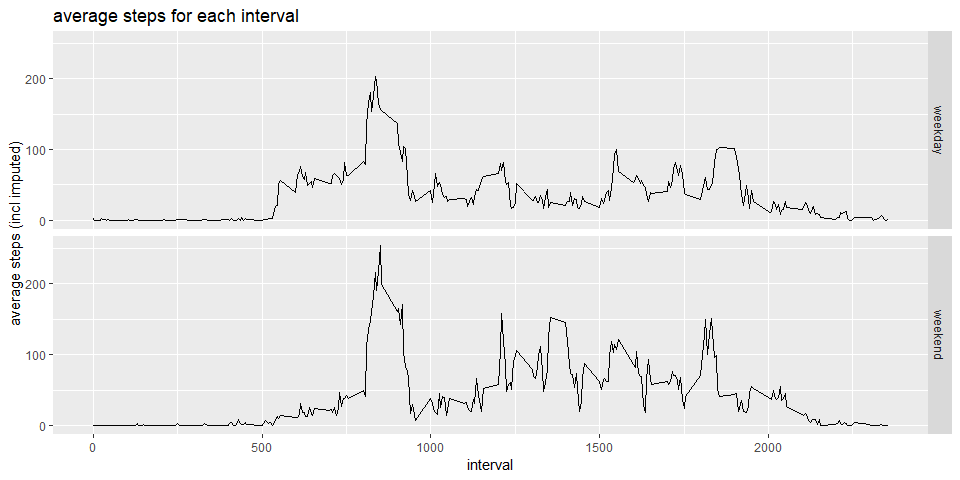
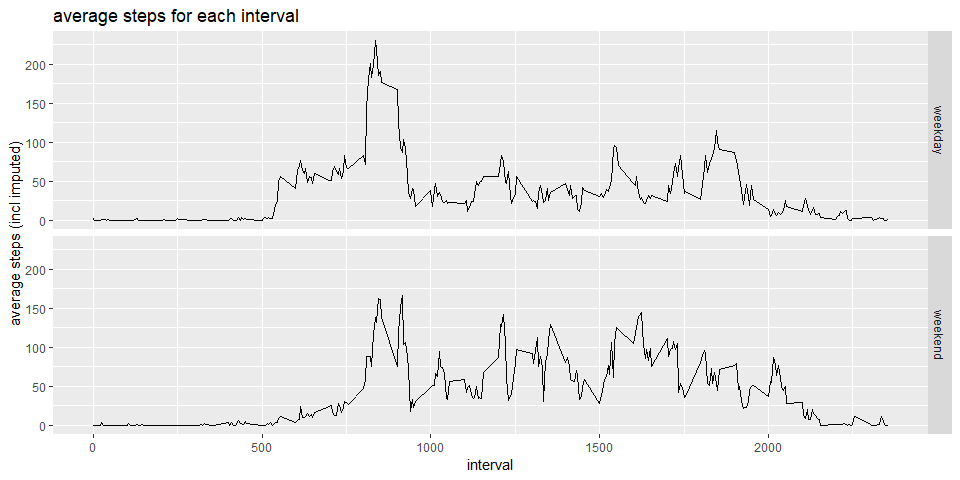
Fix week_start issue

diff --git a/PA1_template.html b/PA1_template.html
@@ -221,7 +221,7 @@ summary(intimputeddaily.act$steps)</code></pre>
 ##    0.00    2.52   34.16   37.38   52.86  206.15</code></pre>
 <p><strong>Are there differences in activity patterns between weekdays and weekends?</strong></p>
 <pre class="r"><code># add a computed variable factor with two levels weekday and weekend
-daytype.act &lt;- mutate(imputed.act, daytype=factor(ifelse(wday(date)&gt;5,'weekend','weekday')))
+daytype.act &lt;- mutate(imputed.act, daytype=factor(ifelse(wday(date, week_start=1)&gt;5,'weekend','weekday')))
 
 # summarise by day type and interval and average the steps
 intdaytype.act &lt;- daytype.act %&gt;% 
@@ -232,7 +232,7 @@ g &lt;- ggplot(intdaytype.act,aes(interval,steps)) + geom_line()
 g &lt;- g + facet_grid(rows = vars(daytype)) + 
   labs(y='average steps (incl imputed)', title='average steps for each interval')
 print(g)</code></pre>
[2 lines of base64/hex data omitted]
 </div>
 
 

diff --git a/PA1_template.md b/PA1_template.md
@@ -165,7 +165,7 @@ summary(intimputeddaily.act$steps)
 
 ```r
 # add a computed variable factor with two levels weekday and weekend
-daytype.act <- mutate(imputed.act, daytype=factor(ifelse(wday(date)>5,'weekend','weekday')))
+daytype.act <- mutate(imputed.act, daytype=factor(ifelse(wday(date, week_start=1)>5,'weekend','weekday')))
 
 # summarise by day type and interval and average the steps
 intdaytype.act <- daytype.act %>% 
